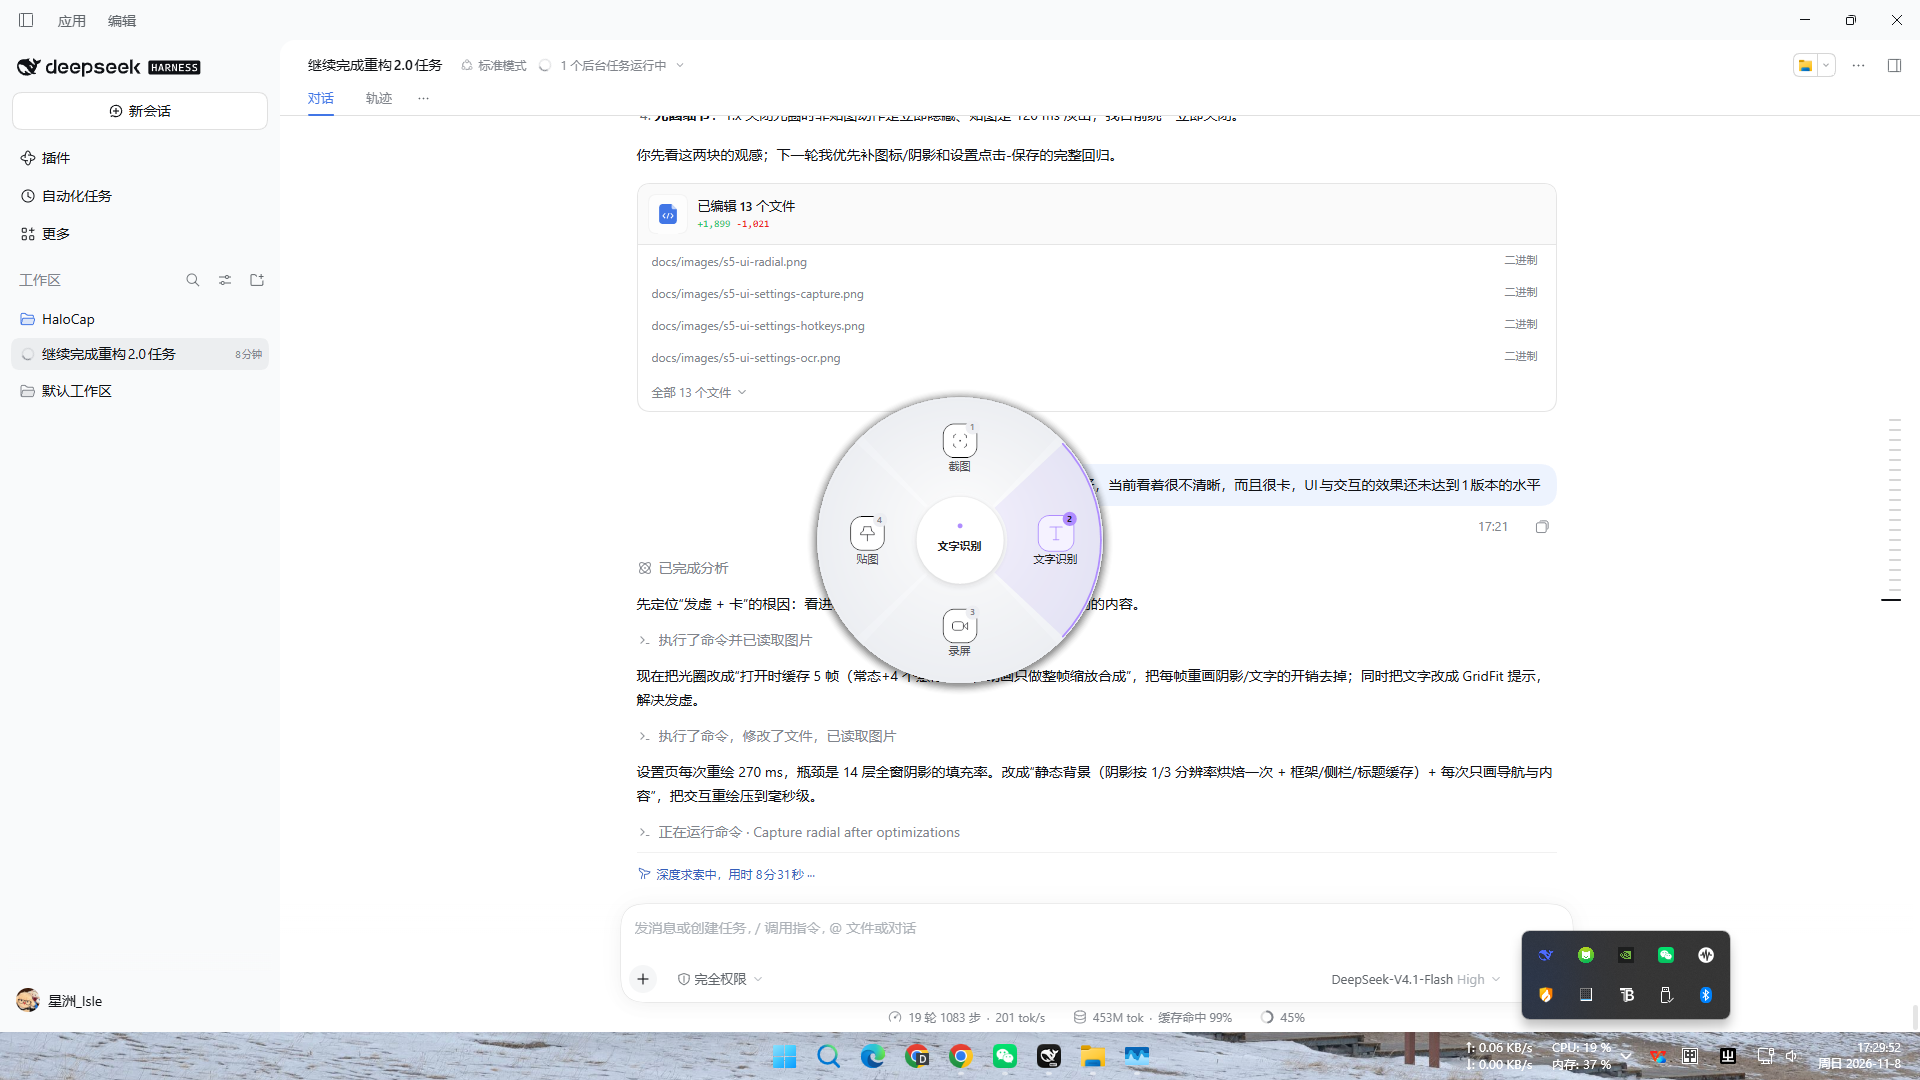
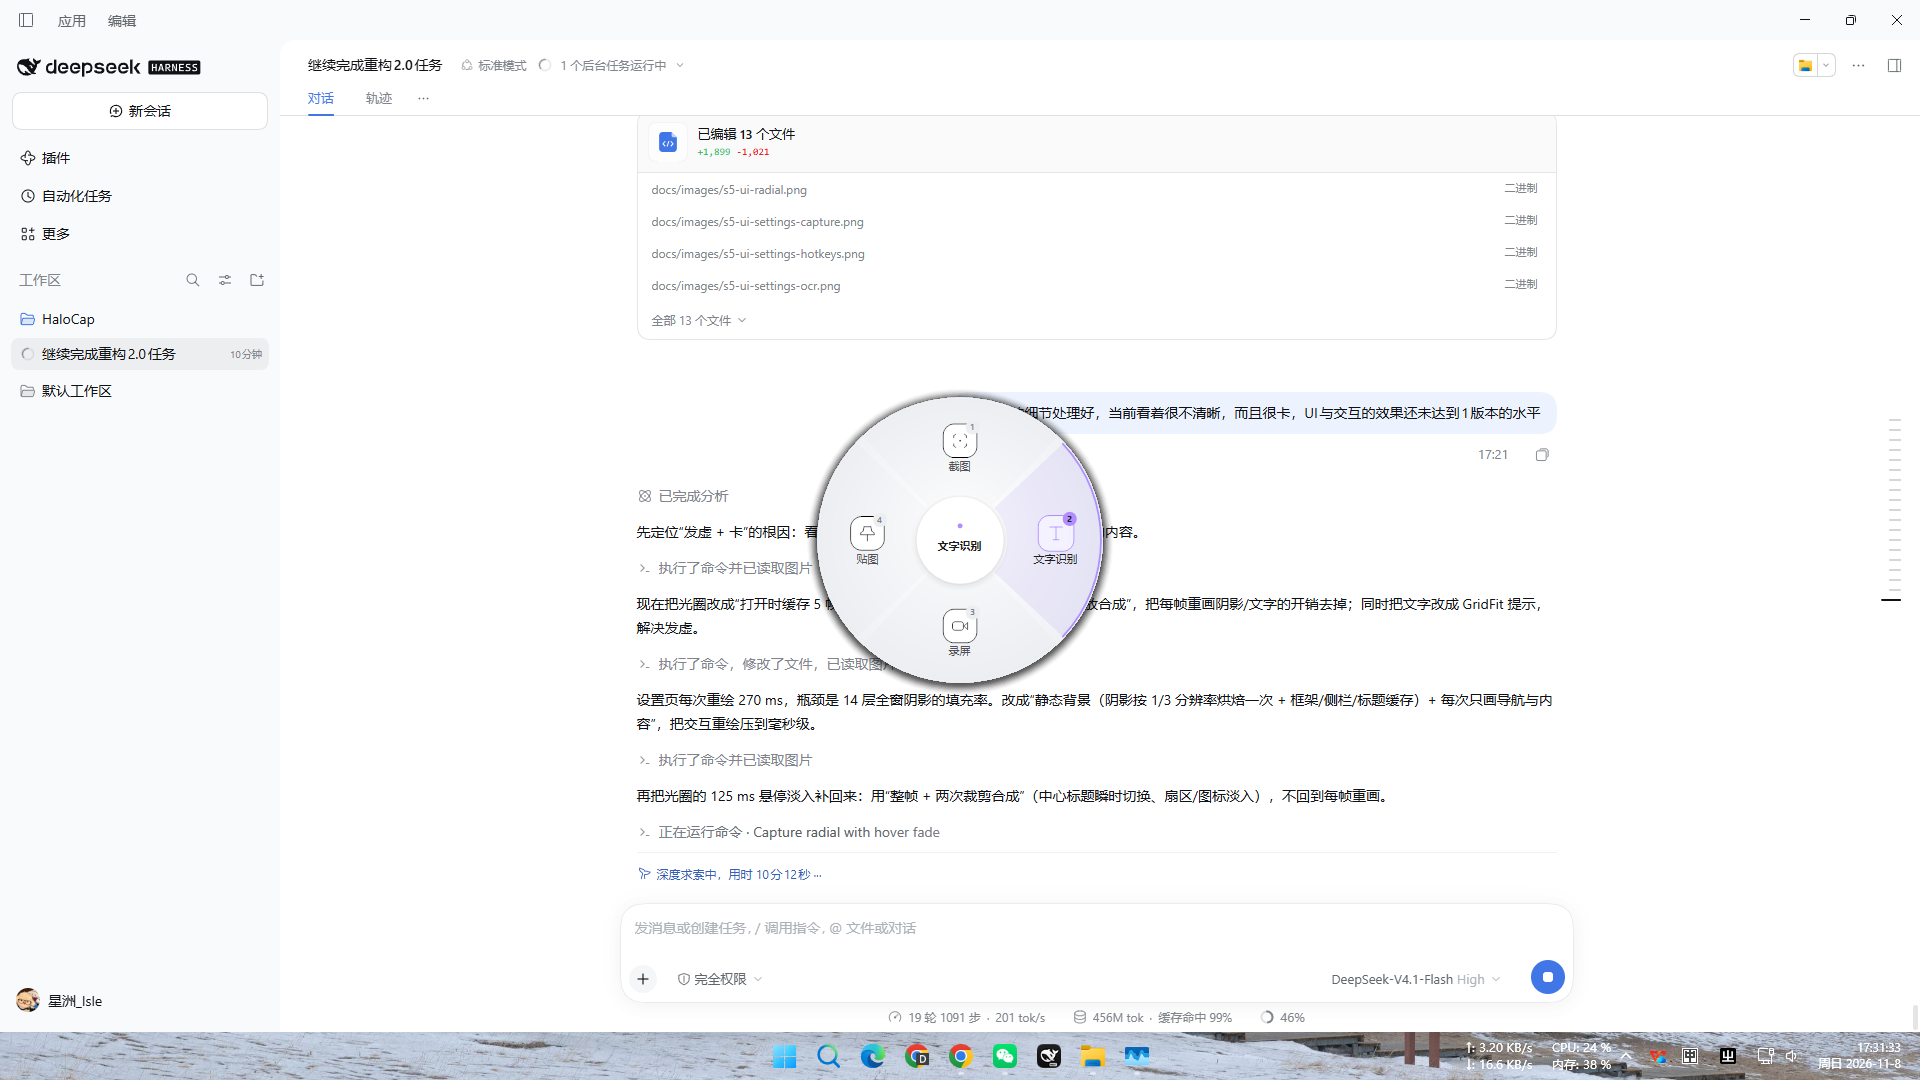
perf: restore radial hover fade without per-frame redraws
Composite the cached neutral frame plus the cached hover frame in two clipped
passes: sectors/items fade over 130 ms outside the centre disk, while the centre
title switches instantly (no text ghosting). Hover now costs one or two GPU-less
blits plus UpdateLayeredWindow instead of a full design redraw per 16 ms tick.

Settings remains at ~15 ms per page render with the cached background; the proof
image was refreshed.

diff --git a/native/app/radial_menu.cpp b/native/app/radial_menu.cpp
@@ -510,12 +510,53 @@ void RadialMenu::Render() {
     graphics.Clear(Color(0, 0, 0, 0));
 
     const int frameIndex = hovered_ >= 0 ? hovered_ + 1 : 0;
-    BuildFrame(frameIndex);
-    Bitmap* frame = cache_->frames[frameIndex].get();
+    BuildFrame(0);
+    Bitmap* neutral = cache_->frames[0].get();
     const float drawSize = cache_->size * scale;
     const float left = (widthPx_ - drawSize) * 0.5f;
     const float top = (heightPx_ - drawSize) * 0.5f;
-    graphics.DrawImage(frame, RectF(left, top, drawSize, drawSize));
+    const RectF frameDestination(left, top, drawSize, drawSize);
+    graphics.DrawImage(neutral, frameDestination);
+
+    if (hovered_ >= 0) {
+        BuildFrame(hovered_ + 1);
+        Bitmap* hover = cache_->frames[hovered_ + 1].get();
+        const float alpha = std::clamp(hoverAlpha_[hovered_], 0.0f, 1.0f);
+        if (alpha > 0.01f) {
+            const float k = drawSize / kDesign;
+            const float centerX = left + drawSize * 0.5f;
+            const float centerY = top + drawSize * 0.5f;
+            const float centerRadius = 52.0f * k;
+            GraphicsPath centerPath;
+            centerPath.AddEllipse(centerX - centerRadius, centerY - centerRadius,
+                                  centerRadius * 2.0f, centerRadius * 2.0f);
+            Gdiplus::Region centerRegion(&centerPath);
+            Gdiplus::Region outerRegion(Rect(static_cast<INT>(left), static_cast<INT>(top),
+                                             static_cast<INT>(drawSize),
+                                             static_cast<INT>(drawSize)));
+            outerRegion.Exclude(&centerRegion);
+
+            // 扇区/图标：130 ms 淡入，中心标题不参与淡入（与 1.x 一致，避免文字重影）。
+            graphics.SetClip(&outerRegion);
+            if (alpha < 0.99f) {
+                ColorMatrix matrix = {};
+                matrix.m[0][0] = 1.0f;
+                matrix.m[1][1] = 1.0f;
+                matrix.m[2][2] = 1.0f;
+                matrix.m[3][3] = alpha;
+                ImageAttributes attributes;
+                attributes.SetColorMatrix(&matrix);
+                graphics.DrawImage(hover, frameDestination, 0.0f, 0.0f,
+                                   static_cast<float>(cache_->size),
+                                   static_cast<float>(cache_->size), UnitPixel, &attributes);
+            } else {
+                graphics.DrawImage(hover, frameDestination);
+            }
+            graphics.SetClip(&centerRegion);
+            graphics.DrawImage(hover, frameDestination);
+            graphics.ResetClip();
+        }
+    }
 
     const Rect lockRect(0, 0, widthPx_, heightPx_);
     BitmapData data{};
@@ -558,9 +599,23 @@ void RadialMenu::Tick() {
         }
         return;
     }
+
+    bool settled = true;
+    for (int i = 0; i < 4; ++i) {
+        const float target = (i == hovered_) ? 1.0f : 0.0f;
+        const float step = 16.0f / 130.0f;
+        if (hoverAlpha_[i] < target) {
+            hoverAlpha_[i] = std::min(target, hoverAlpha_[i] + step);
+            settled = false;
+        } else if (hoverAlpha_[i] > target) {
+            hoverAlpha_[i] = std::max(target, hoverAlpha_[i] - step);
+            settled = false;
+        }
+    }
+
     const float show = std::clamp((now - showStartMs_) / 160.0f, 0.0f, 1.0f);
     Render();
-    if (show >= 1.0f) {
+    if (show >= 1.0f && settled) {
         KillTimer(static_cast<HWND>(window_), 1);
     }
 }
@@ -578,7 +633,7 @@ void RadialMenu::UpdateHover(POINT screenPoint) {
     if (distance < deadPx || distance > diskPx) {
         if (hovered_ != -1) {
             hovered_ = -1;
-            Render();
+            SetTimer(static_cast<HWND>(window_), 1, 16, nullptr);
         }
         return;
     }
@@ -590,7 +645,7 @@ void RadialMenu::UpdateHover(POINT screenPoint) {
     const int index = static_cast<int>(std::floor((angle + 45.0f) / 90.0f)) % 4;
     if (index != hovered_) {
         hovered_ = index;
-        Render();
+        SetTimer(static_cast<HWND>(window_), 1, 16, nullptr);
     }
 }
 
@@ -625,7 +680,7 @@ void RadialMenu::StartDrag(POINT screenPoint) {
     dragging_ = true;
     dragOffset_ = POINT{ centerScreen_.x - screenPoint.x, centerScreen_.y - screenPoint.y };
     hovered_ = -1;
-    Render();
+    SetTimer(static_cast<HWND>(window_), 1, 16, nullptr);
 }
 
 void RadialMenu::DragTo(POINT screenPoint) {
